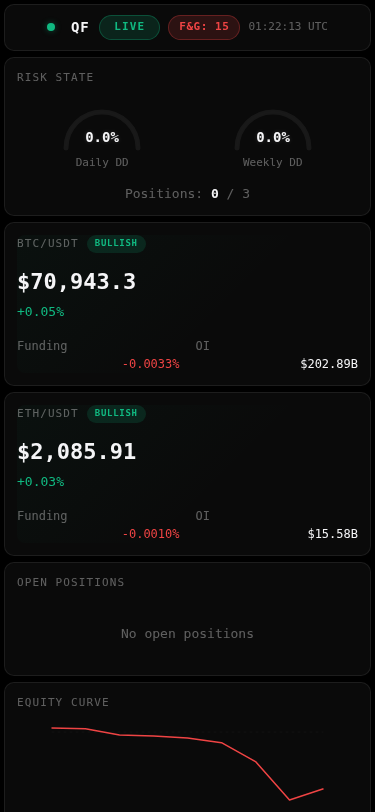
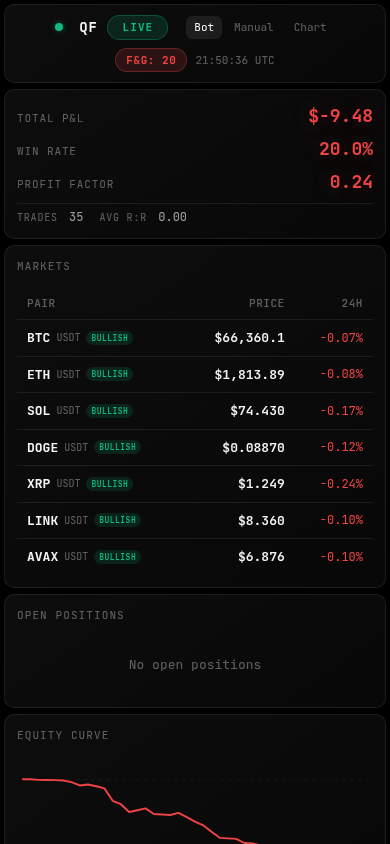
docs: add chart, sizing calculator, journal & telegram sections to README with fresh screenshots

diff --git a/README.md b/README.md
@@ -204,6 +204,55 @@ Mobile responsive (375px+) with 3 breakpoints (desktop, tablet, mobile).
 
 ---
 
+## Interactive Chart Engine
+
+A TradingView-grade charting interface built from scratch on **klinecharts** — not an embedded widget. It reads the same OKX feed that drives the bot, so what's on the chart is exactly what the strategy saw.
+
+![Chart Engine](docs/screenshots/chart-desktop.png)
+
+- **Multi-pair / multi-timeframe** — BTC, ETH across 5m → 1W
+- **Drawing toolbox** — trendlines, rays, horizontal levels, rectangles, measure
+- **Replay mode** — step the market forward candle-by-candle to study setups in motion
+- **Detections overlay** — paints the bot's live signals on the chart: BOS/CHoCH, order blocks, FVG, liquidity sweeps
+- Volume + moving-average sub-panel
+
+Fully responsive — the toolbar reflows above the chart on mobile:
+
+![Chart Mobile](docs/screenshots/chart-mobile.png)
+
+---
+
+## Manual Trading & Position Sizing
+
+A self-contained cockpit for the discretionary book that runs alongside the bot. The **position-size calculator** turns a risk idea into exact orders:
+
+![Position Sizing Calculator](docs/screenshots/manual-calculator.png)
+
+- Enter price + stop + balance → outputs **position size, margin, leverage, and R-multiple** instantly
+- Risk fixed as a % of capital — never sized by feel
+- Linear (USDT) and inverse (USD) contracts, long/short
+- Validates the setup (R:R, SL distance, margin %) before letting you create the trade — with a plain-English verdict
+
+Below the calculator: live manual P&L, win rate, profit factor, open positions, full trade history, and a 30-day analytics breakdown by pair and direction.
+
+---
+
+## Trade Journal (Bybit)
+
+Every manual trade is logged, annotated, and graded. A read-only Bybit API daemon syncs real executions and cross-references each with a market-context snapshot captured at entry time — ML-grade journaling, not a spreadsheet.
+
+![Trade Journal](docs/screenshots/tradelog.png)
+
+Tracks PnL, win rate, profit factor, R-distribution, and a cumulative equity curve.
+
+---
+
+## Telegram Control
+
+The bot lives in your pocket. Priority-based push notifications: only what matters (signal flips, stop hits, real edge) reaches the phone — noise stays in the logs. A daily digest posts at 12:00 UTC, and the `/emergency` command freezes all execution remotely.
+
+---
+
 ## Grafana Monitoring
 
 Four pre-provisioned dashboards reading from PostgreSQL: